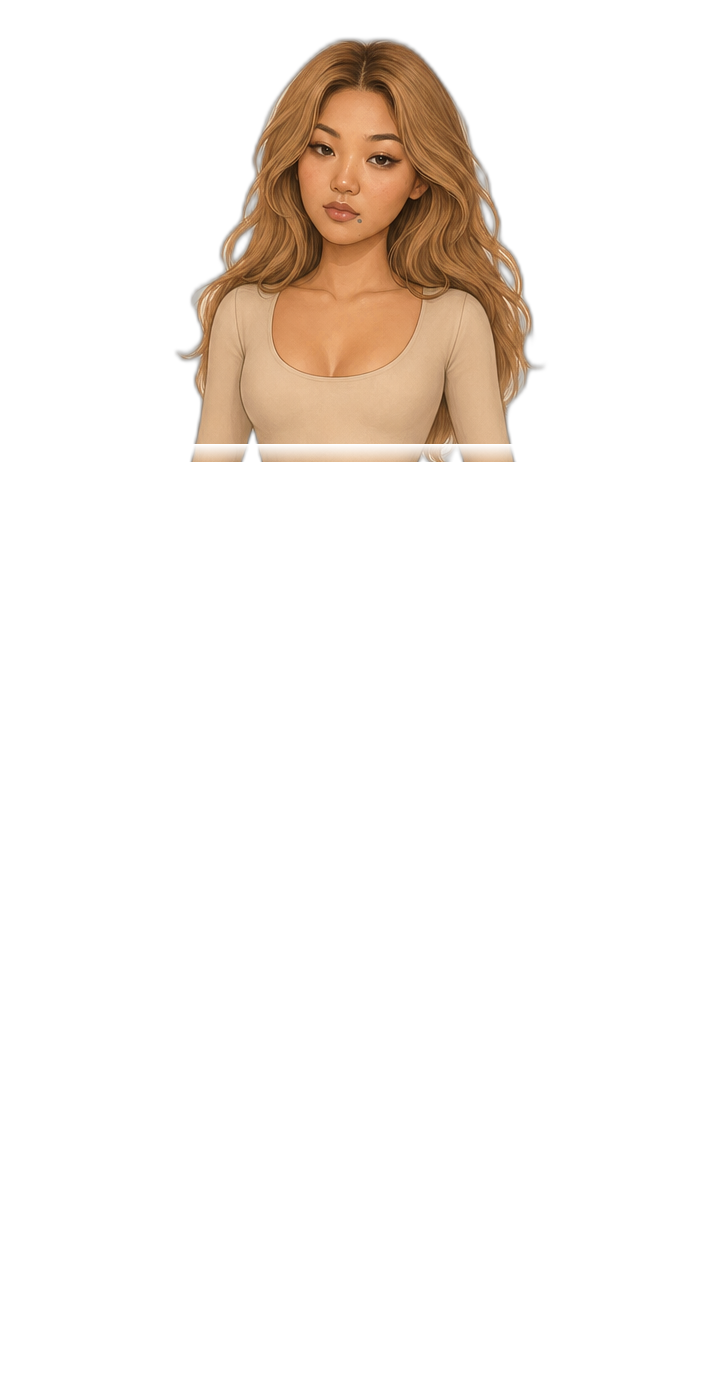
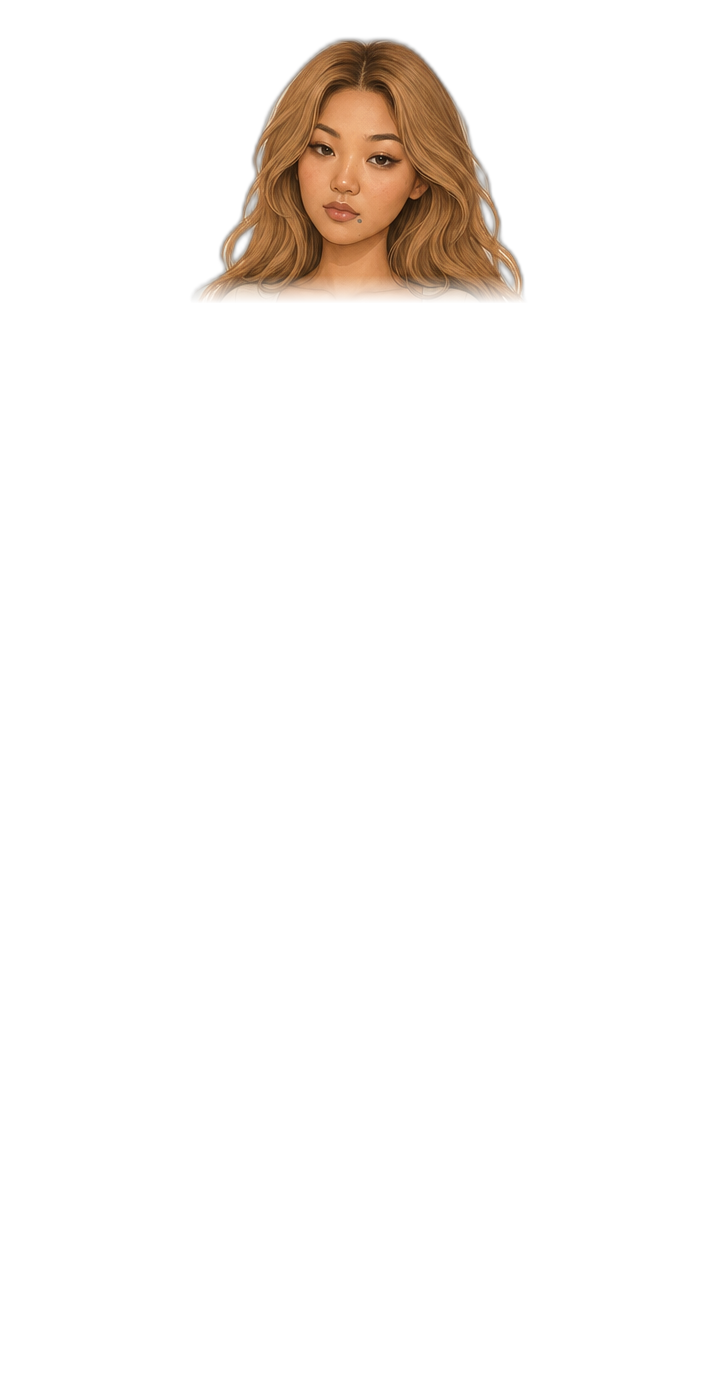
Open closet behind the doll and fix head/clothes layering cutoff.

Changed region(s): [[0.2462, 0.1845, 0.7692, 0.3383]]

diff --git a/web/src/styles.css b/web/src/styles.css
@@ -2026,7 +2026,7 @@ img {
   inset: 0;
   z-index: -1;
   background:
-    linear-gradient(180deg, rgba(255, 248, 250, 0.72), rgba(252, 230, 236, 0.88)),
+    linear-gradient(180deg, rgba(255, 248, 250, 0.28), rgba(252, 230, 236, 0.35)),
     url("/playground-closet-bg.png") center / cover no-repeat;
   pointer-events: none;
 }
@@ -2051,13 +2051,14 @@ img {
   min-height: min(70vh, 680px);
   height: 100%;
   border-radius: 24px;
-  overflow: hidden;
+  overflow: visible;
   background:
-    radial-gradient(ellipse at 50% 12%, rgba(255, 255, 255, 0.9), transparent 48%),
-    linear-gradient(180deg, #fff5f8 0%, #ffe4ed 50%, #f4c6d4 100%);
+    radial-gradient(ellipse at 50% 18%, rgba(255, 255, 255, 0.28), transparent 52%),
+    linear-gradient(180deg, rgba(255, 245, 248, 0.2) 0%, rgba(255, 228, 237, 0.12) 55%, rgba(244, 198, 212, 0.18) 100%);
+  backdrop-filter: blur(1.5px);
   box-shadow:
-    0 22px 44px rgba(170, 60, 100, 0.16),
-    inset 0 0 0 1px rgba(255, 255, 255, 0.7);
+    0 22px 44px rgba(170, 60, 100, 0.12),
+    inset 0 0 0 1px rgba(255, 255, 255, 0.45);
   touch-action: none;
   user-select: none;
 }
@@ -2068,14 +2069,14 @@ img {
   left: 50%;
   bottom: 2%;
   transform: translateX(-50%);
-  width: clamp(150px, 34%, 280px);
-  height: 90%;
+  width: clamp(160px, 38%, 300px);
+  height: 92%;
   max-width: none;
   background-repeat: no-repeat;
   background-position: center bottom;
   background-size: contain;
   pointer-events: none;
-  filter: drop-shadow(0 16px 22px rgba(120, 40, 70, 0.22));
+  filter: drop-shadow(0 18px 26px rgba(80, 30, 50, 0.28));
 }
 
 .walkin__doll--body {
@@ -2084,7 +2085,8 @@ img {
 
 .walkin__doll--head {
   z-index: 999;
-  filter: drop-shadow(0 6px 10px rgba(120, 40, 70, 0.12));
+  /* softer so neckline of clothes can peek under chin */
+  filter: drop-shadow(0 4px 8px rgba(120, 40, 70, 0.1));
 }
 
 .walkin__tools {
@@ -2169,9 +2171,10 @@ img {
   padding: 0.65rem 0.55rem;
   border-radius: 16px;
   background:
-    linear-gradient(180deg, rgba(255, 252, 253, 0.96), rgba(255, 234, 240, 0.92));
-  border: 1px solid rgba(232, 150, 175, 0.45);
-  box-shadow: 0 14px 28px rgba(170, 60, 100, 0.1);
+    linear-gradient(180deg, rgba(255, 252, 253, 0.72), rgba(255, 234, 240, 0.58));
+  border: 1px solid rgba(232, 150, 175, 0.4);
+  box-shadow: 0 14px 28px rgba(170, 60, 100, 0.08);
+  backdrop-filter: blur(10px);
 }
 
 .shop__title {
@@ -2248,7 +2251,7 @@ img {
   background: transparent;
   cursor: grab;
   touch-action: none;
-  filter: drop-shadow(0 8px 14px rgba(90, 30, 50, 0.16));
+  filter: drop-shadow(0 10px 16px rgba(90, 30, 50, 0.2));
 }
 
 .fit__hit img {
@@ -2258,6 +2261,8 @@ img {
   max-width: none;
   pointer-events: none;
   object-fit: contain;
+  /* tuck garment into the scene a bit instead of pure sticker */
+  mix-blend-mode: multiply;
 }
 
 .fit__sel {

diff --git a/web/src/pages/PlaygroundPage.tsx b/web/src/pages/PlaygroundPage.tsx
@@ -68,9 +68,9 @@ function slotFor(p: Product): Slot {
 function defaultPose(slot: Slot): Pick<Placed, "x" | "y" | "scale" | "rot" | "z"> {
   switch (slot) {
     case "dress":
-      return { x: 50, y: 58, scale: 0.72, rot: 0, z: 20 };
+      return { x: 50, y: 62, scale: 0.68, rot: 0, z: 20 };
     case "top":
-      return { x: 50, y: 46, scale: 0.58, rot: 0, z: 25 };
+      return { x: 50, y: 52, scale: 0.55, rot: 0, z: 25 };
     case "bottom":
       return { x: 50, y: 68, scale: 0.58, rot: 0, z: 18 };
     case "shoes":
@@ -348,7 +348,7 @@ export function PlaygroundPage() {
               className="walkin__doll walkin__doll--body"
               role="img"
               aria-label="You"
-              style={{ backgroundImage: `url(${DOLL}?v=5)` }}
+              style={{ backgroundImage: `url(${DOLL}?v=6)` }}
             />
 
             {placed.map((piece) => {
@@ -420,7 +420,7 @@ export function PlaygroundPage() {
             <div
               className="walkin__doll walkin__doll--head"
               aria-hidden
-              style={{ backgroundImage: `url(${DOLL_HEAD}?v=5)` }}
+              style={{ backgroundImage: `url(${DOLL_HEAD}?v=6)` }}
             />
           </div>
 